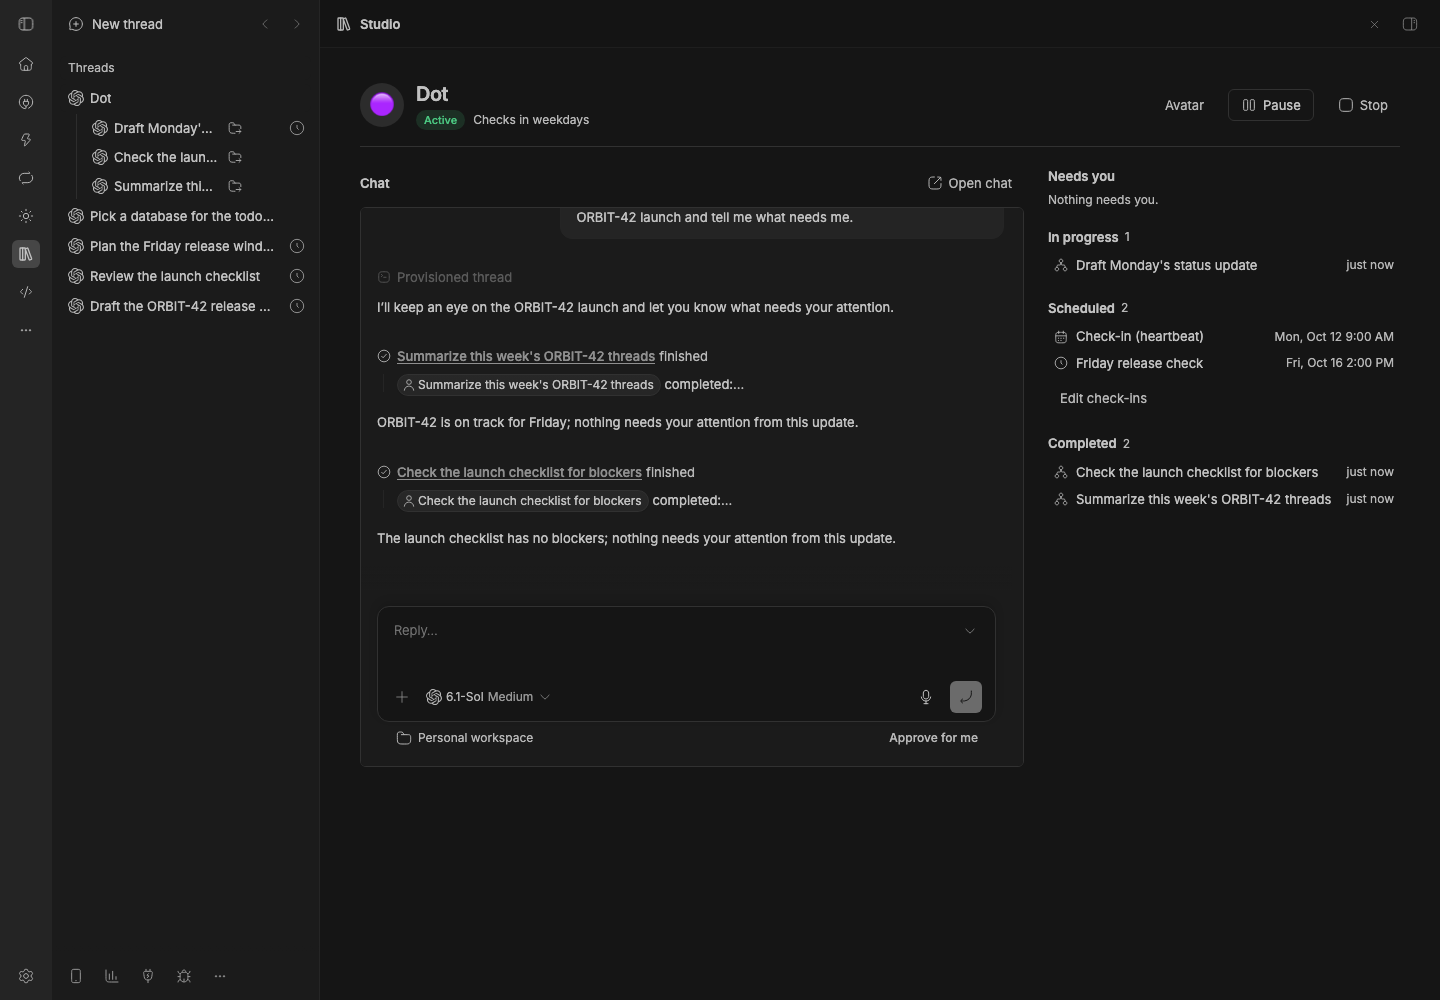
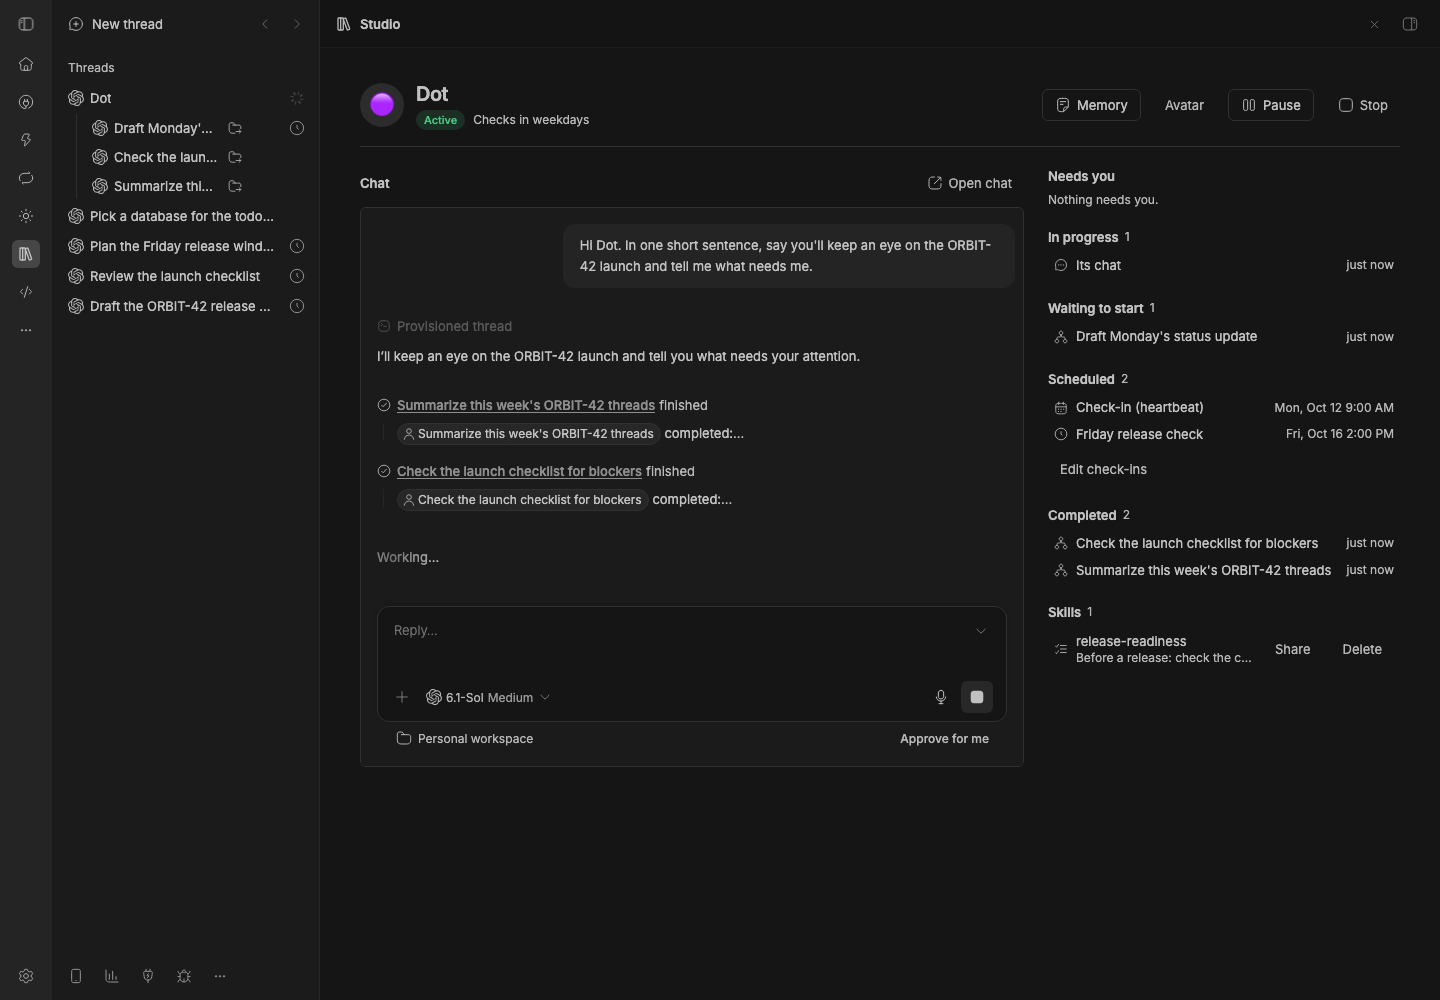
Studio: capture the Bot home with Memory, Skills and Waiting to start from staging

diff --git a/packages/bb-studio/README.md b/packages/bb-studio/README.md
@@ -971,7 +971,7 @@ bb studio reindex
 
 ## Bot
 
-![The Bot's home in a staged BB: Dot with its chat, Needs you, In progress, Scheduled (its check-in and a Friday automation) and two completed threads it started](assets/bot.png)
+![The Bot's home in a staged BB: Dot with its chat and Memory button, Needs you, In progress, Waiting to start (a thread queued for next week), Scheduled (its check-in and a Friday automation), two completed threads it started, and Skills with one skill it saved (Share, Delete)](assets/bot.png)
 
 ![Create your bot: name, emoji and an optional first message](assets/bot-create.png)
 
